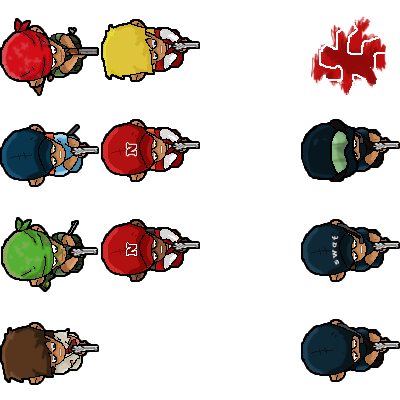
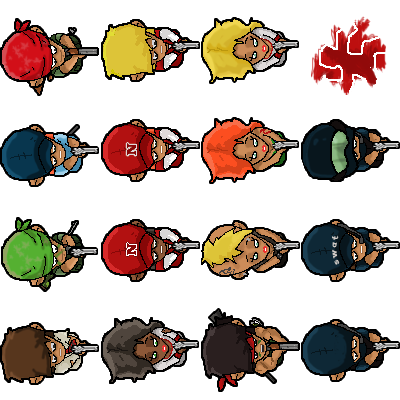
nouveaux skins, ecran chargement, correction pastille leaderboard

diff --git a/jeu.html b/jeu.html
@@ -116,6 +116,15 @@
 						<a href="mailto:zombiz.dev@gmail.com">Envie de contribuer à Zombiz ? De faire un partenariat ? Envoyez-moi un mail !</a><br/></p>
 				</div>
 			</div>
+			<!-- Fenêtre de chargement au démarrage -->
+			<div id="loadingScreen" class="fenetreInfosPlateau">
+				<div>
+					<h1>Zombiz Team survival</h1>
+					<h2>Chargement en cours</h2>
+					<h2 id="progressBar">0%</h2>
+					<p>chargement version...</p>
+				</div>
+			</div>
 
 			<!-- Fenêtre des options -->
 			<div style="display:none;" id="options" class="fenetreInfosPlateau">
@@ -152,6 +161,10 @@
 					<div class="previewSkin" style="background-position:-100px 0px" onclick="return gameCore.updateSkin(4)"></div>
 					<div class="previewSkin" style="background-position:-100px -100px" onclick="return gameCore.updateSkin(5)"></div>
 					<div class="previewSkin" style="background-position:-100px -200px" onclick="return gameCore.updateSkin(6)"></div>
+					<div class="previewSkin" style="background-position:-100px -300px" onclick="return gameCore.updateSkin(7)"></div>
+					<div class="previewSkin" style="background-position:-200px 0px" onclick="return gameCore.updateSkin(8)"></div>
+					<div class="previewSkin" style="background-position:-200px -100px" onclick="return gameCore.updateSkin(9)"></div>
+					<div class="previewSkin" style="background-position:-200px -200px" onclick="return gameCore.updateSkin(10)"></div>
 					<div style="clear:both"><!--stop le fucking float-->
 						<a id="hide_boutique" href="#">Fermer cette fenêtre</a>
 					</div>
@@ -179,38 +192,6 @@
 			<p id="version">Version 0.9.3.2 alpha (20130405)</p>
 		</footer>
 	</div><!-- div#wrapper -->
-	<!-- Script servant à forcer le chargement des sprites-->
-	<script type="text/javascript">
-	var preloadImage1 = new Image(); 
-	preloadImage1.src = 'img/players.png'; 
-	var preloadImage2 = new Image(); 
-	preloadImage2.src = 'img/zombies.png'; 
-	var preloadImage3 = new Image(); 
-	preloadImage3.src = 'img/buffs.png'; 
-	var preloadImage4 = new Image(); 
-	preloadImage4.src = 'img/sang.png'; 
-	var preloadImage5 = new Image(); 
-	preloadImage5.src = 'img/simple_bullet.png'; 
-	var preloadImage6 = new Image();
-	preloadImage6.src ='img/droppables.png';
-	var preloadImage7 = new Image();
-	preloadImage7.src = 'img/simple_bullet.png';
-	</script>
-	<!-- Chargement des sons -->
-	<script>
-	var nbZombieSound=8;
-	var audio_tableau={'GUN_SHORT':'/sounds/gunshot_short.wav', 'GUN_LONG':'/sounds/gunshot_long.wav',
-						'ZOMBIE_0':'/sounds/i_want_brains.mp3', 'ZOMBIE_1':'/sounds/mummy_zombie.mp3', 
-						'ZOMBIE_2':'/sounds/silverstone.wav', 'ZOMBIE_3':'/sounds/zombie_attack.wav',
-						'ZOMBIE_4':'/sounds/Zombie_Brain_Eater.mp3', 'ZOMBIE_5':'/sounds/Zombie_Gets_Attacked.mp3',
-						'ZOMBIE_6':'/sounds/zombie_groan_1.wav', 'ZOMBIE_7':'/sounds/zombie_groan_2.wav',
-						'ZOMBIE_8':'/sounds/Zombie_Kill_You.mp3','ZOMBIE_9':'/sounds/Zombie_Long_Death.mp3',
-						'ZOMBIE_10':'/sounds/Zombie_Moan.mp3'};
-	var AUDIO={};
-	for(var key in audio_tableau){
-		AUDIO[key]=new buzz.sound(audio_tableau[key], {preload:true});
-	}
-	</script>
 
 	<!-- Google analytics -->
 	<script type="text/javascript">

diff --git a/js/GameCore.class.js b/js/GameCore.class.js
@@ -455,7 +455,7 @@ function updateLeaderBoard(){
 }
 
 
-$(document).ready(function(){
+$(window).load(function(){
 	if(readCookie('zombiz_version_z')==null)
 		initEventConnexion();
 	else{
@@ -499,4 +499,42 @@ $(document).ready(function(){
 	$('#account-passwd2').click(function(){$(this).focus();});
 	updateLeaderBoard();
 
+	// FONCTIONS DE PRELOADING
+	console.log('Lancement du charment...');
+	var tabObjImages={};
+	for(var i=0;i<tabImages.length;i++){
+		tabObjImages[i]=new Image();
+		tabObjImages[i].src=tabImages[i];
+		tabObjImages[i].onload=incrementChargement;
+	}
+	<!-- Chargement des sons -->
+	var nbZombieSound=8;
+	var AUDIO={};
+	for(var key in audio_tableau){
+		AUDIO[key]=new buzz.sound(audio_tableau[key], {preload:true});
+		AUDIO[key].bind('canplaythrough',incrementChargement);
+	}
+	$('#loadingScreen p').text($('#version').text());
 });
+
+//VARIABLES A PRELOADER
+var tabImages=['img/players.png', 'img/players_mini.png', 'img/buffs.png', 'img/sang.png',
+				'img/simple_bullet.png', 'img/droppables.png', 'img/zombies.png', 'img/zombies_mini.png'];
+var audio_tableau={'GUN_SHORT':'/sounds/gunshot_short.wav', 'GUN_LONG':'/sounds/gunshot_long.wav',
+						'ZOMBIE_0':'/sounds/i_want_brains.mp3', 'ZOMBIE_1':'/sounds/mummy_zombie.mp3', 
+						'ZOMBIE_2':'/sounds/silverstone.wav', 'ZOMBIE_3':'/sounds/zombie_attack.wav',
+						'ZOMBIE_4':'/sounds/Zombie_Brain_Eater.mp3', 'ZOMBIE_5':'/sounds/Zombie_Gets_Attacked.mp3',
+						'ZOMBIE_6':'/sounds/zombie_groan_1.wav', 'ZOMBIE_7':'/sounds/zombie_groan_2.wav',
+						'ZOMBIE_8':'/sounds/Zombie_Kill_You.mp3','ZOMBIE_9':'/sounds/Zombie_Long_Death.mp3',
+						'ZOMBIE_10':'/sounds/Zombie_Moan.mp3'};
+var totalOK = 0;
+var totalCible= tabImages.length + Object.keys(audio_tableau).length;
+function incrementChargement(){
+	totalOK++;
+	//console.log(totalOK);
+	$('#progressBar').text(parseInt(totalOK/totalCible*100)+'%');
+	if(totalOK==totalCible){
+		console.log('Chargement terminé.');
+		$('#loadingScreen').remove();
+	}
+}

diff --git a/server.js b/server.js
@@ -48,8 +48,8 @@ function handler( request , response ) {
         filePath='./leaderboard.html';
     }
     //On protège tous les dossiers et fichiers interdits
-    else if(filePath=='./server.js'){
-        console.log(dateToLog(new Date) + 'Tentative d\'accès au fichier serveur');
+    else if(filePath=='./server.js' || filePath=='./js/CharacterManager.class.js' || filePath=='./js/DBCore.class.js' || filePath=='./js/ServerMap.class.js'){
+        console.log(dateToLog(new Date) + 'Tentative d\'accès aux fichiers serveurs : ' + filePath);
         response.writeHead(403);
         response.end('Acces interdit. Petit malin.');
     }
@@ -90,6 +90,7 @@ function handler( request , response ) {
             fs.readFile(filePath, function(error, content) {
                 if (error) {
                     response.writeHead(500);
+                    console.log(dateToLog(new Date) + 'Erreur 500 : ' + err);
                     response.end();
                 }
                 else {
@@ -99,7 +100,7 @@ function handler( request , response ) {
             });
         }
         else {
-            console.log(dateToLog(new Date) + 'Error fs.stat : ' + err);
+            console.log(dateToLog(new Date) + 'Erreur 404 : ' + err);
             response.writeHead(404);
             response.end();
         }
@@ -269,7 +270,7 @@ io.sockets.on('connection', function(socket) {
     socket.on('update_account_skin', function(skinID){
         socket.get('pseudo', function(err, pseudo){
             //A changer une fois les conditions d'obtentions faites.
-            if(skinID>=0 && skinID<=6){
+            if(skinID>=0 && skinID<=10){
                 dbCore.updateAccountSkin(pseudo, skinID);
                 serverMap.getPlayer(pseudo).style=skinID;
             }

diff --git a/css/common.css b/css/common.css
@@ -80,7 +80,7 @@ nav ul li a:hover{color:rgb(200,50,50);}
 	cursor: url('/img/viseur.png') 24 24,pointer;
 }
 
-#inscription, #options, #account, #boutique{
+.fenetreInfosPlateau, #inscription, #options, #account, #boutique{
 	background-color:black;
 	color:white;
 	position:absolute;
@@ -89,15 +89,19 @@ nav ul li a:hover{color:rgb(200,50,50);}
 	width:1000px;
 	height: 650px;
 }
-#options div, #account div, #boutique div{
+.fenetreInfosPlateau div, #options div, #account div, #boutique div{
 	margin:auto;
 	width:60%;
 	margin-top: 100px;
 	background-color:rgb(50,50,50);	
+	background-image: url('../img/zombiz_background.jpg');
+	background-size: 100%;
+	background-repeat: no-repeat;
 }
 #boutique .previewSkin{
 	width: 100px;
 	height: 100px;
+	margin:20px 20px;
 	float:left;
 	background-image:url('/img/players.png');
 	background-repeat: none;
@@ -111,7 +115,7 @@ nav ul li a:hover{color:rgb(200,50,50);}
 }
 #inscription div ul{
 	text-align: left;
-	color:grey;
+	color:rgb(200,200,200);
 }
 #inscription a{
 	display:inline-block;
@@ -138,7 +142,7 @@ h1{
 	text-shadow:1px 1px 2px black;
 }
 h2{
-	color:grey;
+	color:rgb(200,200,200);
 	text-align: center;
 	font-size: 30px;
 	margin:0px;
@@ -202,7 +206,7 @@ footer p{margin-top:0px;}
 #leaderboard tr:nth-child(6) td{font-size: 1.1em;}
 
 /* gestion des grades / ban */
-.leaderboard-badge{float:left;margin-top:2px;margin-left:2px;font-size:11px;color:white;padding:2px;border-radius: 4px;}
+.leaderboard-badge{float:left;margin-top:2px;margin-left:2px;margin-right:-38px;font-size:11px;color:white;padding:2px;border-radius: 4px;}
 .leaderboard-ban{background-color:rgb(150,150,150);}
 .leaderboard-modo{background-color:rgb(50,150,50);}
 .leaderboard-admin{background-color:rgb(150,50,150);}

diff --git a/js/CharacterManager.class.js b/js/CharacterManager.class.js
@@ -213,7 +213,7 @@ module.exports = function CharacterManager(){
    			id:id,
             pseudo:pseudo,
             alive:true,
-            style:parseInt(Math.random()*7),
+            style:parseInt(Math.random()*11),
             attaque:this.creationArme(0),
             isFiring:false,
             target:{targetX:0,targetY:0},
